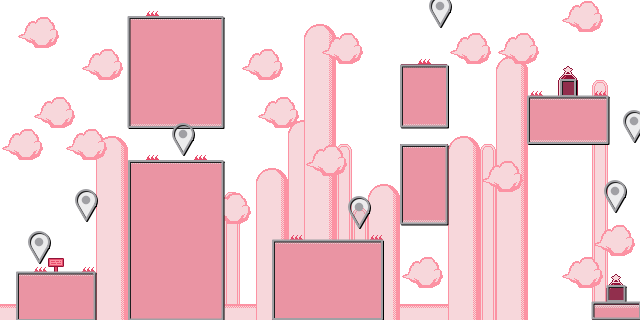
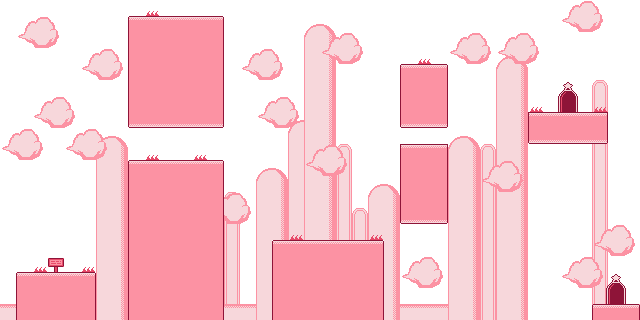
Ajout de l'ensemble du deuxième monde

diff --git a/src/main.ts b/src/main.ts
@@ -8,6 +8,7 @@ import {
 } from './entities'
 import { k } from './kaboomCtx'
 import { makeMap } from './utils'
+import { globalGameState } from './state'
 
 async function gameSetup() {
   // with k context we can use loadSprite function wich is a kaboom function
@@ -28,13 +29,23 @@ async function gameSetup() {
   })
 
   k.loadSprite('level-1', './level-1.png')
+  k.loadSprite('level-2', './level-2.png')
+
+  k.add([k.rect(k.width(), k.height()), k.color(0, 0, 0), k.fixed()])
 
   const { map: level1Layout, spawnPoints: level1SpawnPoints } = await makeMap(
     k,
     'level-1'
   )
 
-  k.scene('level-1', () => {
+  const { map: level2Layout, spawnPoints: level2SpawnPoints } = await makeMap(
+    k,
+    'level-2'
+  )
+
+  k.scene('level-1', async () => {
+    globalGameState.setCurrentScene('level-1')
+    globalGameState.setNextScene('level-2')
     k.setGravity(2100)
     k.add([
       k.rect(k.width(), k.height()),
@@ -43,8 +54,6 @@ async function gameSetup() {
     ])
 
     k.add(level1Layout)
-
-    console.log('level1SpawnPoints:', level1SpawnPoints)
 
     if (
       !level1SpawnPoints ||
@@ -65,7 +74,8 @@ async function gameSetup() {
 
     setControls(k, kirb)
     k.add(kirb)
-    k.camScale(0.7, 0.7)
+    // (0.7, 0.7)
+    k.camScale(k.vec2(0.7))
     k.onUpdate(() => {
       if (kirb.pos.x < level1Layout.pos.x + 432) {
         k.camPos(kirb.pos.x + 500, 800)
@@ -91,6 +101,54 @@ async function gameSetup() {
       })
     }
   })
+
+  k.scene('level-2', () => {
+    globalGameState.setCurrentScene('level-2')
+    globalGameState.setNextScene('level-1')
+    k.setGravity(2100)
+    k.add([
+      k.rect(k.width(), k.height()),
+      k.color(k.Color.fromHex('#f7d7db')),
+      k.fixed(),
+    ])
+
+    k.add(level2Layout)
+    const kirb = makePlayer(
+      k,
+      level2SpawnPoints.player[0].x,
+      level2SpawnPoints.player[0].y
+    )
+
+    setControls(k, kirb)
+    k.add(kirb)
+    k.camScale(k.vec2(0.7))
+    k.onUpdate(() => {
+      if (kirb.pos.x < level2Layout.pos.x + 2100)
+        k.camPos(kirb.pos.x + 500, 700)
+    })
+
+    for (const flame of level2SpawnPoints.flame) {
+      makeFlameEnemy(k, flame.x, flame.y)
+    }
+
+    for (const guy of level2SpawnPoints.guy) {
+      makeGuyEnemy(k, guy.x, guy.y)
+    }
+
+    for (const bird of level2SpawnPoints.bird) {
+      const possibleSpeeds = [100, 200, 300]
+      k.loop(10, () => {
+        makeBirdEnemy(
+          k,
+          bird.x,
+          bird.y,
+          possibleSpeeds[Math.floor(Math.random() * possibleSpeeds.length)]
+        )
+      })
+    }
+  })
+
+  k.scene('end', () => {})
 
   k.go('level-1')
 }

diff --git a/src/entities.ts b/src/entities.ts
@@ -11,6 +11,7 @@ import {
   SpriteComp,
 } from 'kaboom'
 import { scale } from './constants'
+import { globalGameState } from './state'
 // create a function that is responsible for creating our game object for the player
 
 // Create spécifique type for player
@@ -59,7 +60,8 @@ export function makePlayer(k: KaboomCtx, posX: number, posY: number) {
 
     if (player.hp() === 0) {
       k.destroy(player)
-      k.go('level-1')
+      // Reset scene
+      k.go(globalGameState.currentScene)
       return
     }
 
@@ -81,7 +83,7 @@ export function makePlayer(k: KaboomCtx, posX: number, posY: number) {
   })
 
   player.onCollide('exit', () => {
-    k.go('level-2')
+    k.go(globalGameState.nextScene)
   })
 
   const inhaleEffect = k.add([
@@ -111,7 +113,7 @@ export function makePlayer(k: KaboomCtx, posX: number, posY: number) {
   })
   player.onUpdate(() => {
     if (player.pos.y > 2000) {
-      k.go('level-1')
+      k.go(globalGameState.currentScene)
     }
   })
 

diff --git a/src/state.ts b/src/state.ts
@@ -1,0 +1,21 @@
+export const globalGameState: {
+  scenes: string[]
+  nextScene: string
+  currentScene: string
+  setNextScene: (sceneName: string) => void
+  setCurrentScene: (sceneName: string) => void
+} = {
+  scenes: ['level-1', 'level-2', 'end'],
+  nextScene: '',
+  currentScene: 'level-1',
+  setCurrentScene(sceneName: string) {
+    if (this.scenes.includes(sceneName)) {
+      this.currentScene = sceneName
+    }
+  },
+  setNextScene(sceneName: string) {
+    if (this.scenes.includes(sceneName)) {
+      this.nextScene = sceneName
+    }
+  },
+}
